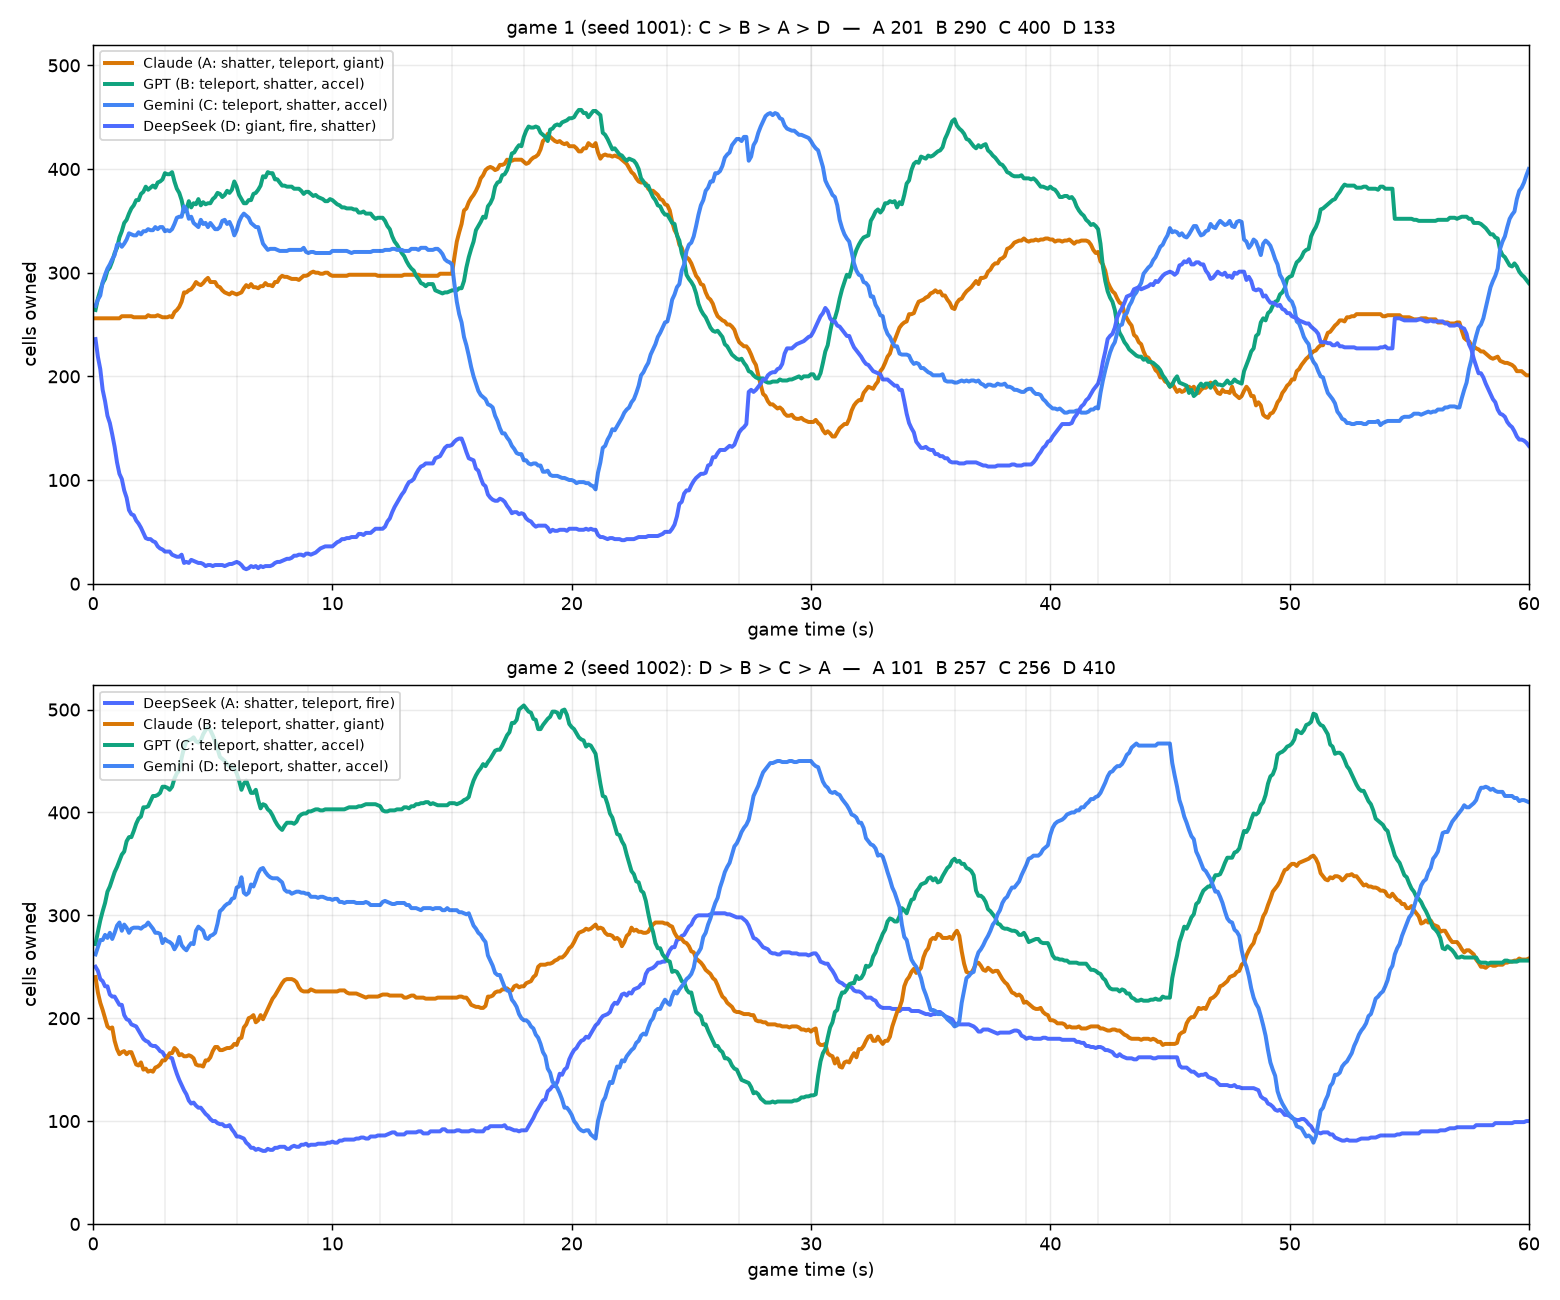
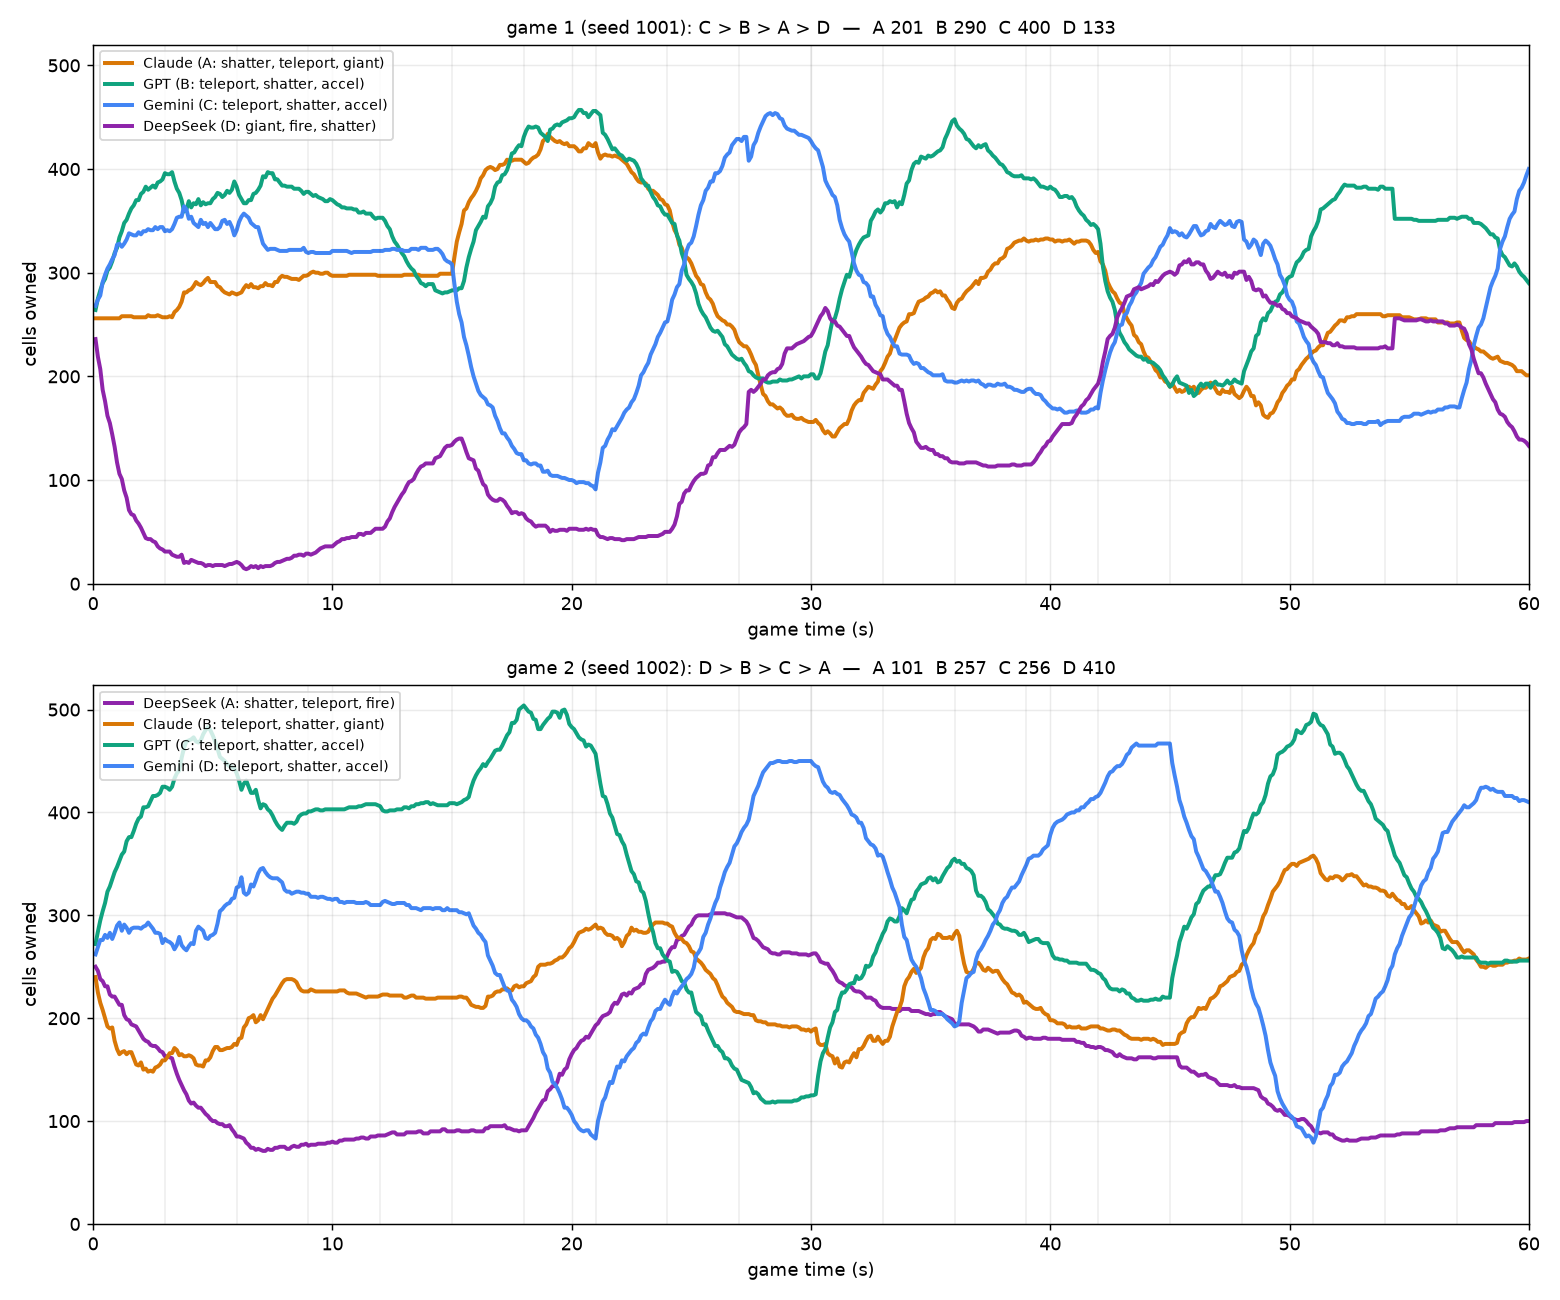
color-battle-arena: parser accepts 'CMD: <SKILL> [x y]' as the matching CAST (DeepSeek's format), DeepSeek purple in charts

diff --git a/color-battle-arena/arena/prompt.py b/color-battle-arena/arena/prompt.py
@@ -103,16 +103,21 @@ def observation(snap: Snapshot, team: int, decision_no: int, n_decisions: int, l
     return "\n".join(lines)
 
 
-CMD_RE = re.compile(r"CMD\s*[:：]\s*\**\s*(TURN|CAST|WAIT)\b\s*([^\n]*)", re.IGNORECASE)
+CMD_RE = re.compile(r"CMD\s*[:：]\s*\**\s*([A-Za-z][A-Za-z ]*?)\b\s*\**\s*([-+\d][^\n]*|$)", re.IGNORECASE | re.MULTILINE)
 NUM_RE = re.compile(r"[-+]?\d+(?:\.\d+)?")
+SKILL_WORDS = {"freeze": "freeze", "split": "split", "accel": "accel", "bomb": "bomb", "giant": "giant", "fire": "fire", "lightning": "lightning",
+               "teleport": "teleport", "shatter": "shatter", "shock": "shock", "shockwave": "shock", "chain": "chain", "chain lightning": "chain",
+               "plasma": "snowball", "snowball": "snowball"}
 
 
-def parse(text: str) -> list[dict]:
+def parse(text: str, slots: list[str] | None = None) -> list[dict]:
     """Return up to two commands: {"type": "turn", "x", "y"} | {"type": "cast", "slot", "x"?, "y"?} | {"type": "wait"}.
-    Anything unparsable is dropped (and shows up as 'no valid command' in the log)."""
+    `slots` = the team's skill ids in slot order; with it, "CMD: TELEPORT 12 20" or "CMD: SHATTER" is accepted as the
+    corresponding CAST (the intent is unambiguous; DeepSeek wrote it that way all game on 2026-11-09). Anything else is
+    dropped and shows up as 'no valid command'."""
     out = []
-    for kind, rest in CMD_RE.findall(text or ""):
-        kind = kind.upper()
+    for word, rest in CMD_RE.findall(text or ""):
+        kind = word.strip().upper()
         nums = [float(n) for n in NUM_RE.findall(rest)]
         if kind == "WAIT":
             out.append({"type": "wait"})
@@ -123,6 +128,13 @@ def parse(text: str) -> list[dict]:
             if len(nums) >= 3:
                 c["x"], c["y"] = nums[1], nums[2]
             out.append(c)
+        elif slots and kind.lower() in SKILL_WORDS and SKILL_WORDS[kind.lower()] in slots:
+            c = {"type": "cast", "slot": slots.index(SKILL_WORDS[kind.lower()]) + 1, "by_name": True}
+            if len(nums) >= 2:
+                c["x"], c["y"] = nums[0], nums[1]
+            out.append(c)
+        else:
+            continue
         if len(out) == 2:
             break
     return out

diff --git a/color-battle-arena/charts.py b/color-battle-arena/charts.py
@@ -16,7 +16,7 @@ import matplotlib
 matplotlib.use("Agg")
 import matplotlib.pyplot as plt  # noqa: E402
 
-COLOR = {"Claude": "#d97706", "GPT": "#10a37f", "Gemini": "#4285f4", "DeepSeek": "#4d6bfe", "Bot": "#888888", "Rand": "#bbbbbb"}
+COLOR = {"Claude": "#d97706", "GPT": "#10a37f", "Gemini": "#4285f4", "DeepSeek": "#8e24aa", "Bot": "#888888", "Rand": "#bbbbbb"}
 TEAM_RGB = {"A": "#ef5350", "B": "#42a5f5", "C": "#66bb6a", "D": "#ffca28"}   # the game's own seat colours
 
 

diff --git a/color-battle-arena/arena_server.py b/color-battle-arena/arena_server.py
@@ -259,7 +259,7 @@ class Game:
         for t in llm:
             r: Reply = replies[t]
             L = LETTERS[t - 1]
-            cmds = parse(r.text) if not r.error else []
+            cmds = parse(r.text, [sk["id"] for sk in self.setup["teams"][L]["skills"]]) if not r.error else []
             for c in cmds:
                 c["text"] = fmt_cmd(c)
             out_cmds[L] = cmds
